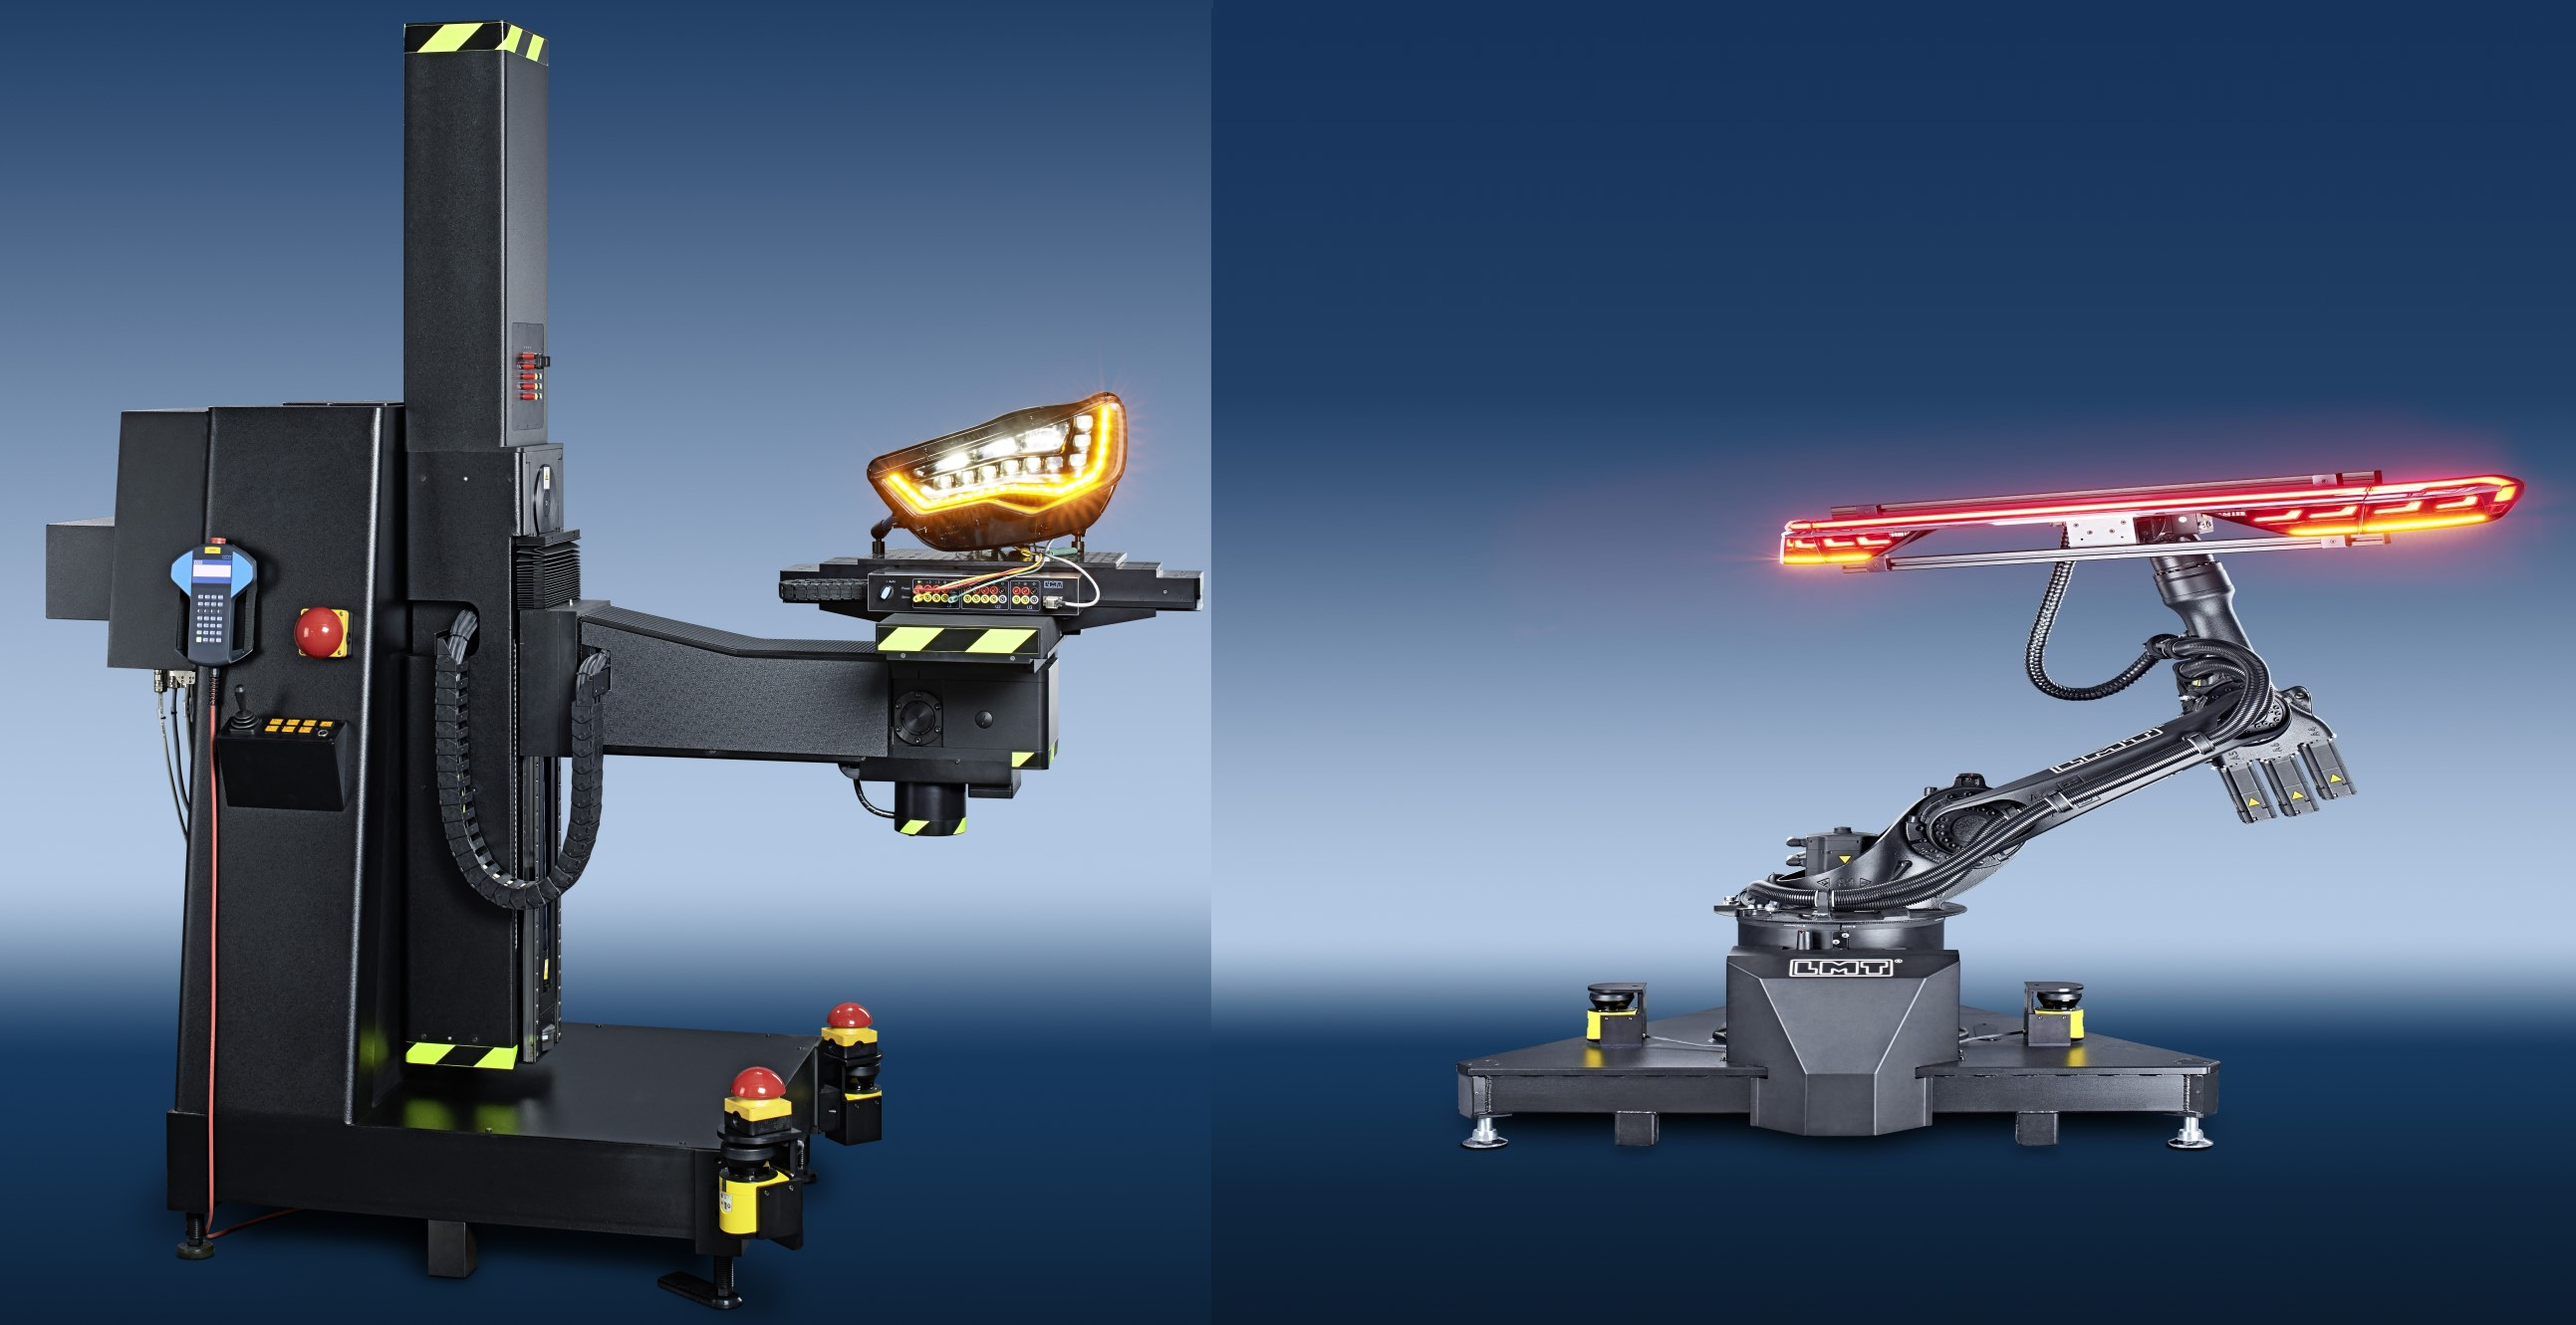
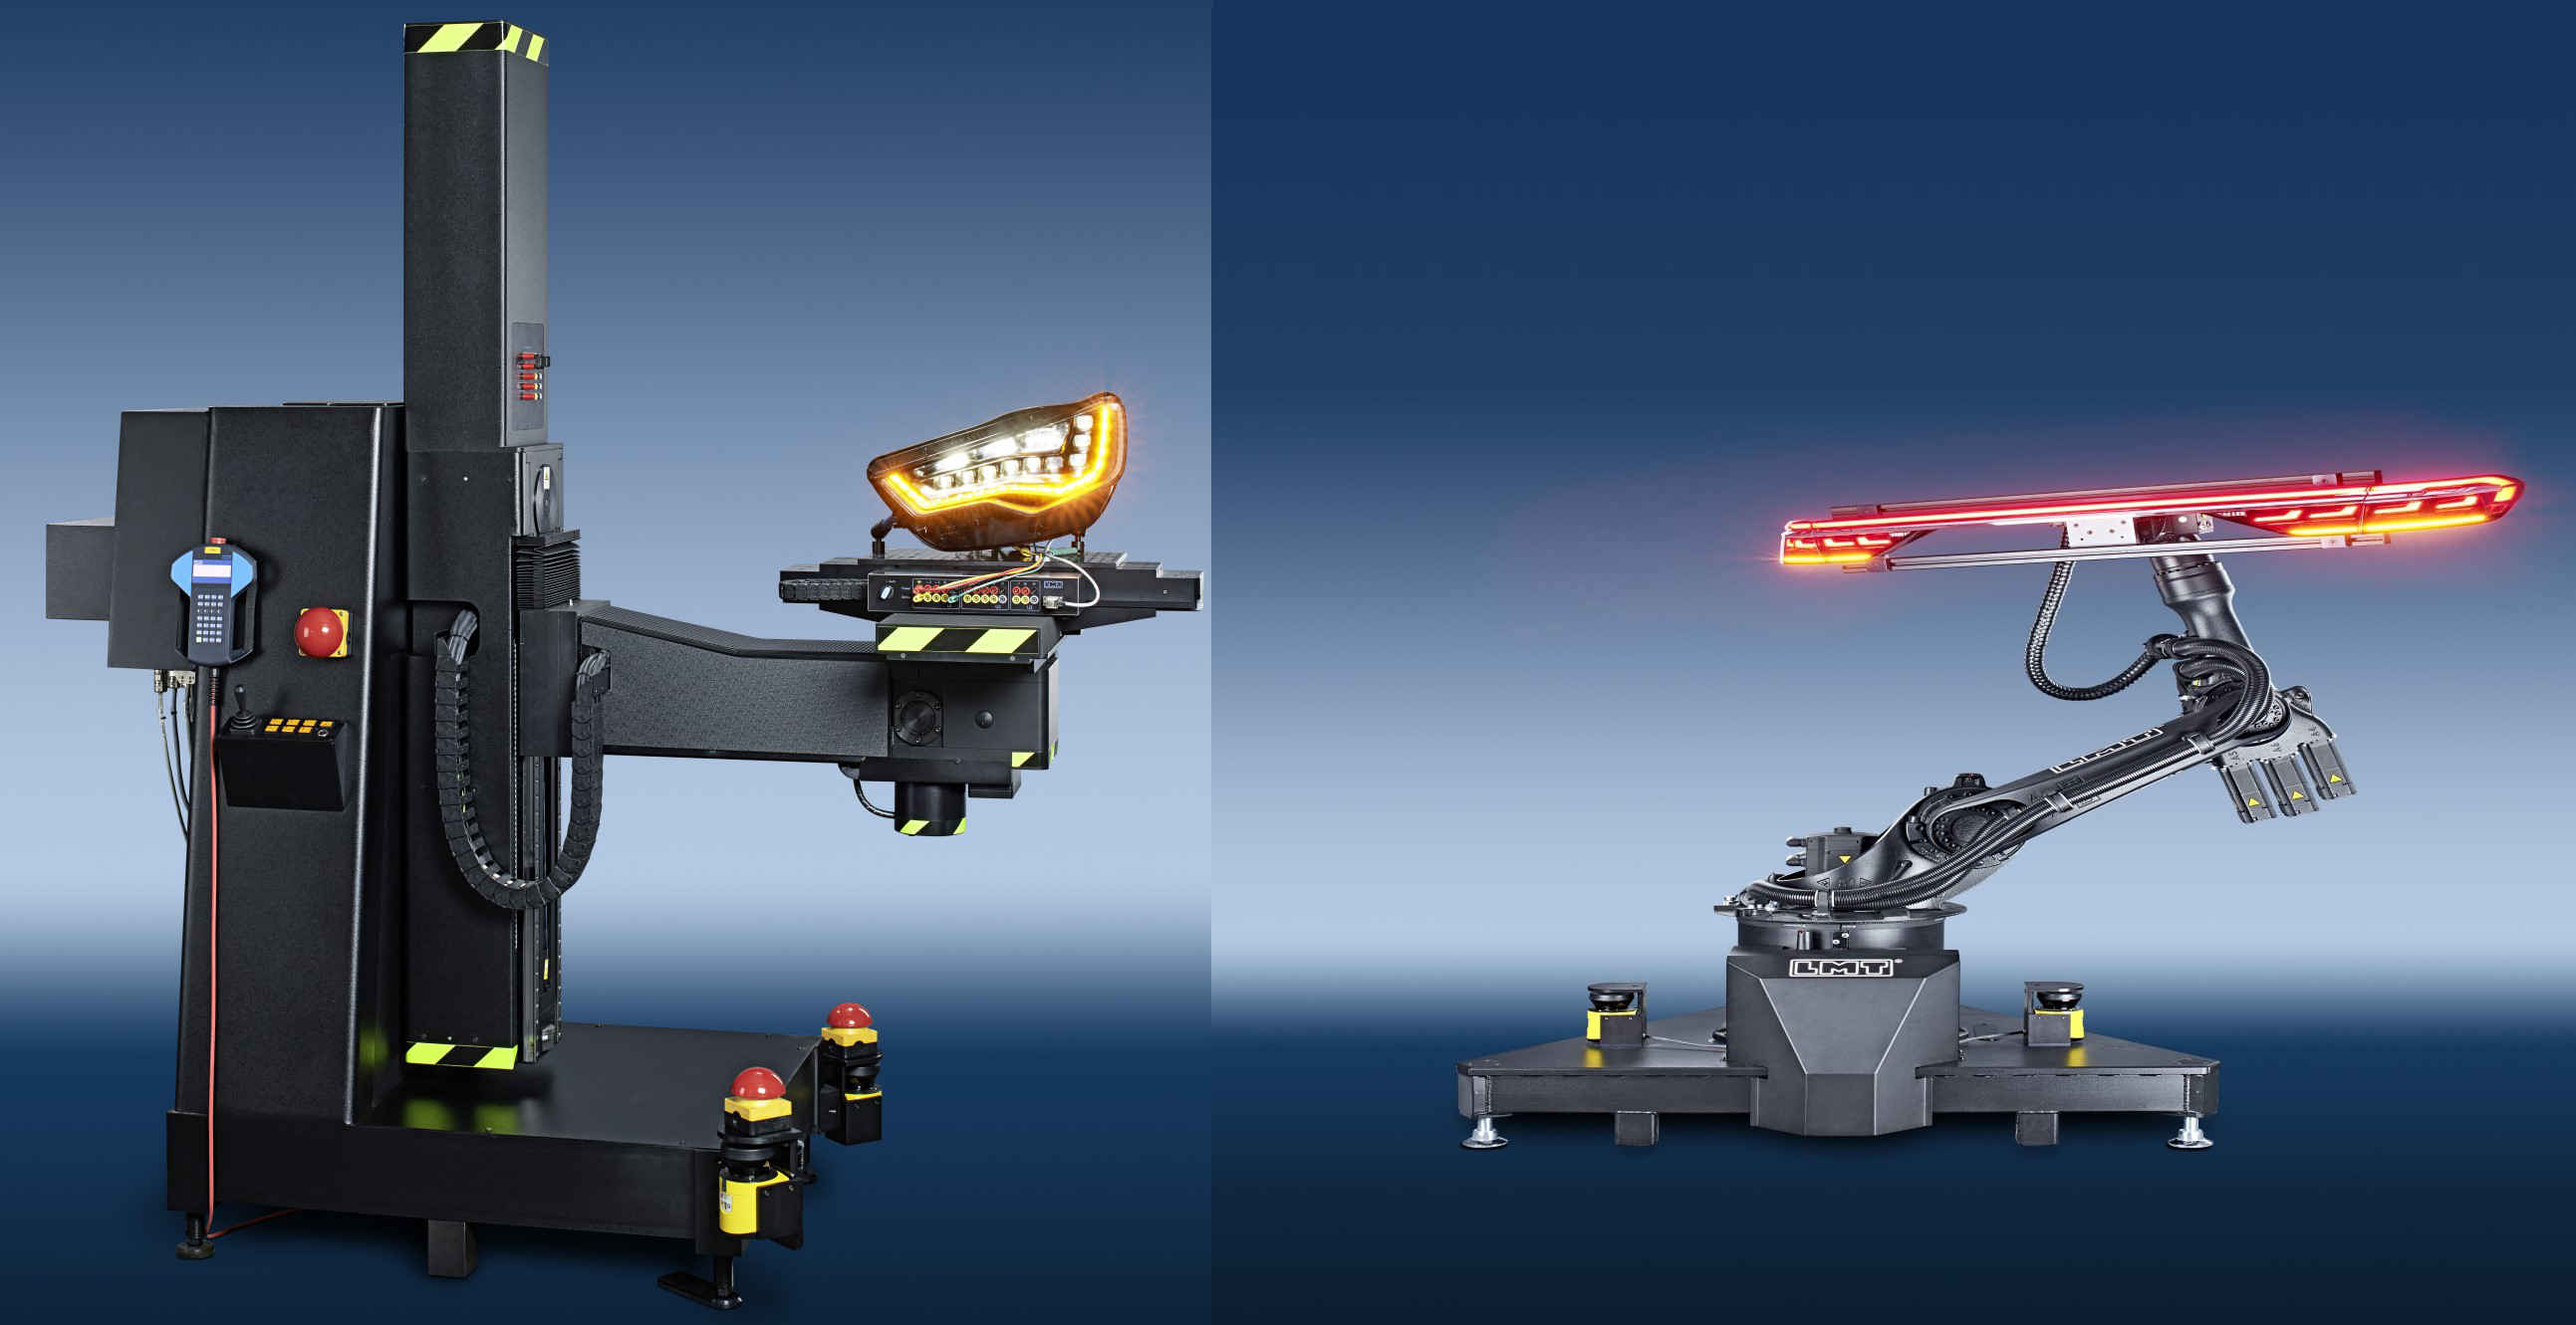
chages

diff --git a/src/app/examples/concordhome/concordhome.component.html b/src/app/examples/concordhome/concordhome.component.html
@@ -13,7 +13,7 @@
             </div>
         </ng-template>
         <ng-template ngbSlide>
-            <img src="./assets/cur/7_LMT_Integrating_Sphere.png" style="border-radius:0px" alt="Random first slide">
+            <img src="./assets/cur/7_LMT_Integrating_Sphere.jpg" style="border-radius:0px" alt="Random first slide">
             <div class="carousel-caption">
                 <p style="font-size: 20px;font-weight: 500;"> LMT Integrating Sphere</p>
             </div>
